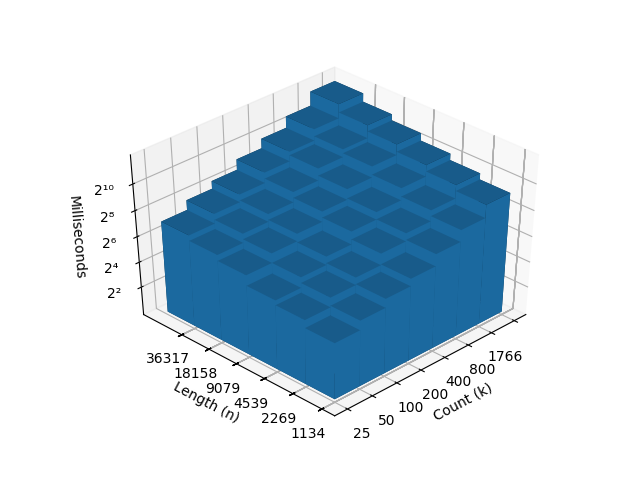
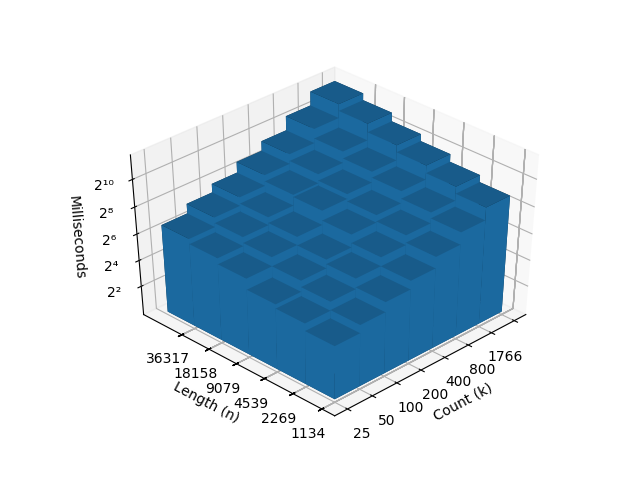
Adding updated figures and table

diff --git a/tex/Efficient-Implied-Alignment.tex b/tex/Efficient-Implied-Alignment.tex
@@ -757,7 +757,8 @@ Clearly, a $\oplus$ that is both commutative \emph{and} associative using the al
 	\begin{table}[!htbp] \centering 
 		\caption{Regression coefficients of leaf-set size and string length on runtime} 
 		\label{Tab:Regression} 
-		\begin{tabular}{@{\extracolsep{5pt}}lD{.}{.}{-3} D{.}{.}{-3} D{.}{.}{-3} D{.}{.}{-3} } 
+
+	\begin{tabular}{@{\extracolsep{5pt}}lD{.}{.}{-3} D{.}{.}{-3} D{.}{.}{-3} D{.}{.}{-3} } 
 			\\[-1.8ex]\hline 
 			\hline \\[-1.8ex] 
 			& \multicolumn{4}{c}{\textit{Dependent variable:}} \\ 
@@ -766,18 +767,17 @@ Clearly, a $\oplus$ that is both commutative \emph{and} associative using the al
 			& \multicolumn{1}{c}{Best} & \multicolumn{1}{c}{Worst} & \multicolumn{1}{c}{Fungi} & \multicolumn{1}{c}{Metazoa} \\ 
 			\\[-1.8ex] & \multicolumn{1}{c}{(1)} & \multicolumn{1}{c}{(2)} & \multicolumn{1}{c}{(3)} & \multicolumn{1}{c}{(4)}\\ 
 			\hline \\[-1.8ex] 
-			$\log_2$ (String count $\;n$) & 0.943 & 1.793 & 1.194 & 1.520 \\ 
+			$\log_2$ (String count $\;n$) & 1.041 & 1.948 & 1.196 & 1.524 \\ 
 			& & & & \\ 
-			$\log_2$ (String length $k$) & 0.874 & 0.865 & 0.794 & 1.059 \\ 
+			$\log_2$ (String length $k$) & 0.901 & 1.013 & 0.796 & 1.040 \\ 
 			& & & & \\ 
 			\hline \\[-1.8ex] 
 			Observations & \multicolumn{1}{c}{25} & \multicolumn{1}{c}{25} & \multicolumn{1}{c}{42} & \multicolumn{1}{c}{42} \\ 
-			Adjusted R$^{2}$ & \multicolumn{1}{c}{0.958} & \multicolumn{1}{c}{0.959} & \multicolumn{1}{c}{0.986} & \multicolumn{1}{c}{0.996} \\ 
+			Adjusted R$^{2}$ & \multicolumn{1}{c}{0.972} & \multicolumn{1}{c}{0.996} & \multicolumn{1}{c}{0.984} & \multicolumn{1}{c}{0.995} \\ 
 			\hline 
 			\hline \\[-1.8ex] 
 		\end{tabular} 
 	\end{table}
-
 
 	\section*{Figures}
 	
